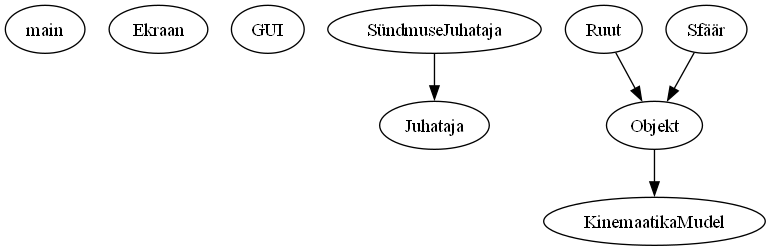
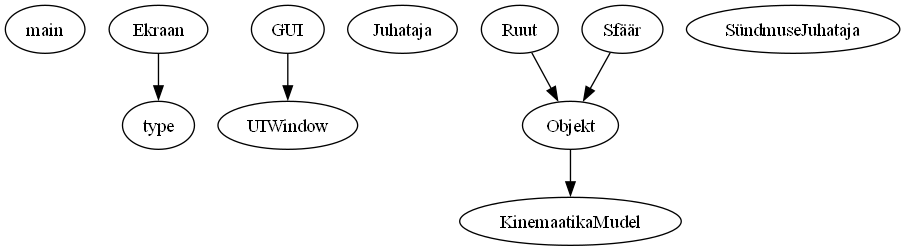
Arendasin asju mis ei ole põhiprogrammis

diff --git a/muu_asju/inheritance_struktuur.py b/muu_asju/inheritance_struktuur.py
@@ -2,21 +2,24 @@
 
 import os
 from graphviz import Digraph
+import re
 
 def rotate_list(lst, n):
     for i in range(n):
         lst.insert(0, lst.pop())
     return lst
 
-flowchart = Digraph("Inheritance flowchart", filename="inheritance_flowchart", format="png")
+flowchart = Digraph("Inheritance flowchart", filename="inheritance_flowchart", directory=os.getcwd()+"\\muu_asju", format="png")
 
 rootdir = os.getcwd()+"\\ksk"
+
+pattern = r'\(([A-Za-zÄÖÜÕäöüõ]+)\)'
 
 classes = {}
 search = []
 for subdir, dirs, files in os.walk(rootdir):
     for file in files:
-        if file[-3:] == ".py" and "temp" not in file:
+        if file[-3:] == ".py" and "temp" not in file and file != "__init__.py":
             classes[file] = os.path.join(subdir, file)
             flowchart.node(file[:-3])
             search.append(file[:-3])
@@ -32,17 +35,17 @@ for x in range(len(search)):
             cur = fn.split("\\")[-1][:-3]
             for line in f:
                 if "class" in line:
-                    for key in search:
-                        if key in line:
-                            if cur == key or [cur, key] in used_pairs:
-                                break
-                            flowchart.edge(cur, key)
-                            used_pairs.append([cur, key])
-                            used_pairs.append([key, cur])
-                            next_search.append(key)
+                    parent = re.findall(pattern, line)
+                    if parent == []:
+                        continue
+                    if cur == parent[0] or [cur, parent[0]] in used_pairs:
+                        break
+                    flowchart.edge(cur, parent[0])
+                    used_pairs.append([cur, parent[0]])
+                    used_pairs.append([parent[0], cur])
+                    next_search.append(parent[0])
 
     rotate_list(search, 1)
-    print(search)
                     
 
 

diff --git a/muu_asju/impordi_struktuur.py b/muu_asju/impordi_struktuur.py
@@ -2,8 +2,9 @@
 
 import os
 from graphviz import Digraph
+import re
 
-flowchart = Digraph("Import flowchart", filename="import_flowchart", format="png")
+flowchart = Digraph("Import flowchart", filename="import_flowchart", directory=os.getcwd()+"\\muu_asju", format="png")
 
 rootdir = os.getcwd()+"\\ksk"
 
@@ -11,29 +12,37 @@ classes = {}
 search = []
 for subdir, dirs, files in os.walk(rootdir):
     for file in files:
-        if file[-3:] == ".py" and "temp" not in file:
+        if file[-3:] == ".py" and "temp" not in file and file != "__init__.py":
             classes[file] = os.path.join(subdir, file)
             flowchart.node(file[:-3])
             search.append(file[:-3])
 
 print(search)
 
-def create_chart(start):
+used_pairs = []
+
+def create_chart(start, trigger=True):
     next_search = []
+    if trigger:
+        next_search = search.copy()
+        trigger = False
     with open(start, 'r', encoding="UTF-8") as f:
         cur = start.split("\\")[-1][:-3]
         for line in f:
+            line = line
             if "import" in line:
                 for key in search:
                     if key in line:
-                        if cur == key:
+                        if cur == key or [cur, key] in used_pairs:
                             break
                         flowchart.edge(cur, key)
+                        used_pairs.append([cur, key])
+                        used_pairs.append([key, cur])
                         next_search.append(key)
     if next_search == []:
         return
     for x in next_search:
-        create_chart(classes[x+".py"])
+        create_chart(classes[x+".py"], trigger=trigger)
     
                         
 create_chart(classes["main.py"])
